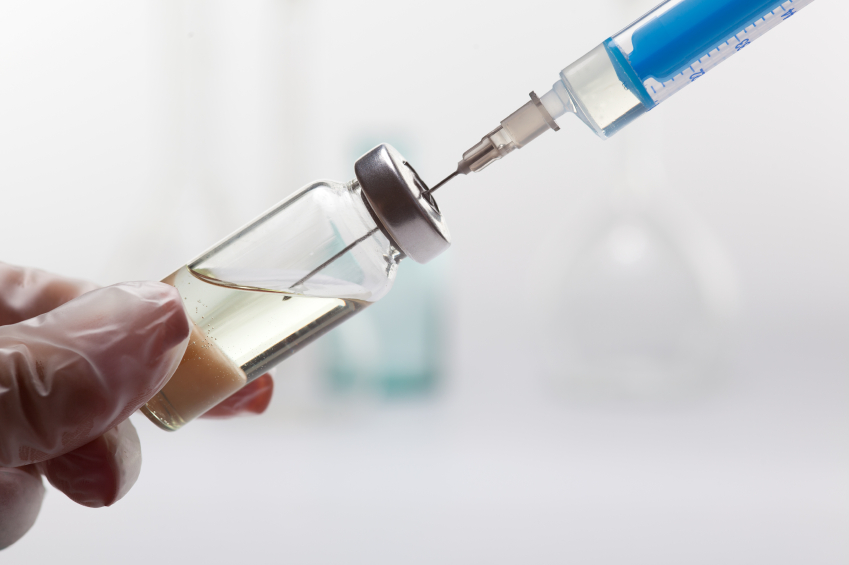
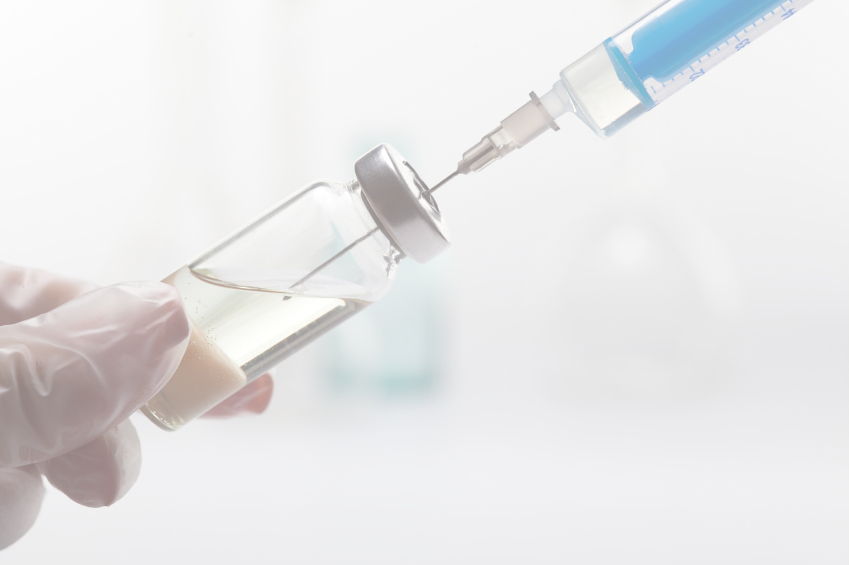
Adicionei transparências às imagens e incluí informações de vacinas complementares

diff --git a/index.html b/index.html
@@ -9,15 +9,14 @@
     <!--Let browser know website is optimized for mobile-->
     <meta name="viewport" content="width=device-width, initial-scale=1.0"/>
     <style media="screen">
-      img {
-        opacity: 0.5;
-        filter: alpha(opacity=50); /* For IE8 and earlier */
-      }
       .carousel-slider {
         height: 100% !important;
       }
       html, body {
         height: 100%;
+      }
+      h6 {
+        font-size: 20px;
       }
       #slide1 {
           background-image: url("./img/imagem2.jpg");
@@ -39,10 +38,10 @@
         background-size: cover;
       }
       .conteudo {
-        top: 15%;
-        left: 15%;
+        top: 5%;
+        left: 10%;
         position: absolute;
-        width: 70%;
+        width: 80%;
       }
 
     </style>
@@ -55,23 +54,51 @@
     <script src="https://cdnjs.cloudflare.com/ajax/libs/materialize/0.99.0/js/materialize.min.js"></script>
 
     <script type="text/javascript">
-        $(document).ready(function(){ $('.carousel.carousel-slider').carousel({full_width: true}); });
+        $(document).ready(function(){
+          $('.carousel.carousel-slider').carousel({full_width: true});
+          $('.modal').modal();
+        });
     </script>
+
+    <div id="modal1" class="modal modal-fixed-footer">
+      <div class="modal-content">
+        <h4>Nome da vacina</h4>
+        <p>Exibir aqui os detalhes da vacina</p>
+      </div>
+      
+      <div class="modal-footer">
+        <a href="#!" class="modal-action modal-close waves-effect waves-green btn-flat ">Fechar</a>
+      </div>
+    </div>
+    
+
 
     <div class="carousel carousel-slider center" data-indicators="true">
 
       <div class="carousel-item red white-text" href="#one!" id="slide1">
-        <div class="conteudo">
-          <h3 class="black-text">Potencialize a imunização do seu filho</h3>
-          <h5 class="grey-text text-darken-3" style="text-align:justify;">
-          Você sabia que o objetivo das vacinações do SUS é tão somente evitar
+        <div class="container">
+          <h3 class="teal-text text-darken-4 row">Potencialize a imunização do seu filho</h3>
+          <h6 class="teal-text text-darken-2 row" style="text-align:justify;">
+          Você sabia que o objetivo das vacinações do SUS é evitar tão somente
           as manifestações mais graves das doenças?
-          Existem calendários com cobertura mais abrangente que possibilitam
-          que seu filho esteja imune também a doenças consideradas menos graves
-          e também a doenças muito graves que por serem mais raras não fazem
-          parte do calendário do SUS. Conheça abaixo os principais calendários
-          de vacinação:
-          </h5>
+          Existem vacinas que possibilitam que seu filho esteja imune também
+          a doenças consideradas menos graves e mesmo a doenças muito graves
+          que por serem consideradas raras não fazem parte do calendário do SUS.
+          Veja abaixo as principais vacinas que não fazem parte do calendário do SUS:
+          </h6>
+          <div class="row">
+            <div class="collection col s8 offset-s2">
+              <a class="collection-item" href="#modal1">Pentavalente Acelular</a>
+              <a class="collection-item" href="#modal1">Meningocócica B</a>
+              <a class="collection-item" href="#modal1">Meningocócica ACWY</a>
+              <a class="collection-item" href="#modal1">Hexavalente Acelular</a>
+              <a class="collection-item" href="#modal1">Pneumocócica 13-valente</a>
+              <a class="collection-item" href="#modal1">Rotavírus Humano Pentavalente</a>
+              <a class="collection-item" href="#modal1">Gripe (Influenza) para maiores de 5 anos</a>
+              <a class="collection-item" href="#modal1">Catapora (Varicela) - segunda dose</a>    
+              <a class="collection-item" href="#modal1">Dengue (A partir de 9 anos)</a>
+            </div>
+          </div>
         </div>
       </div>
 
